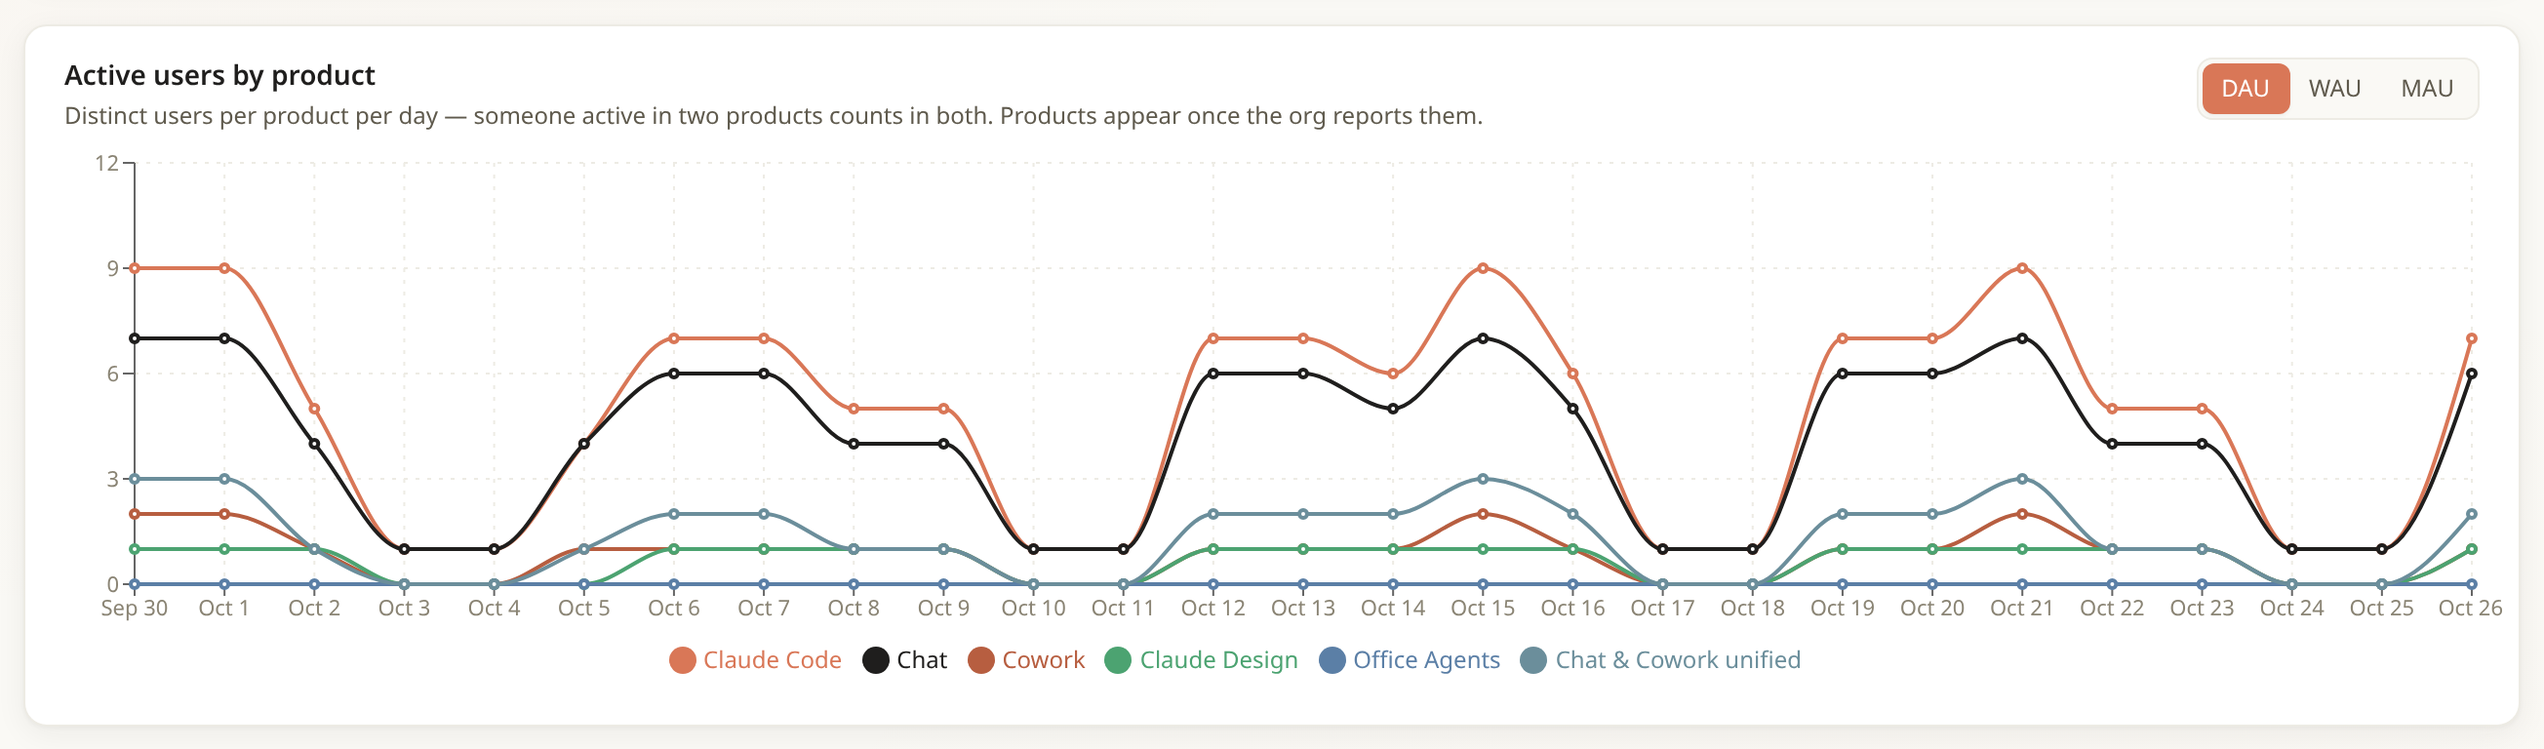
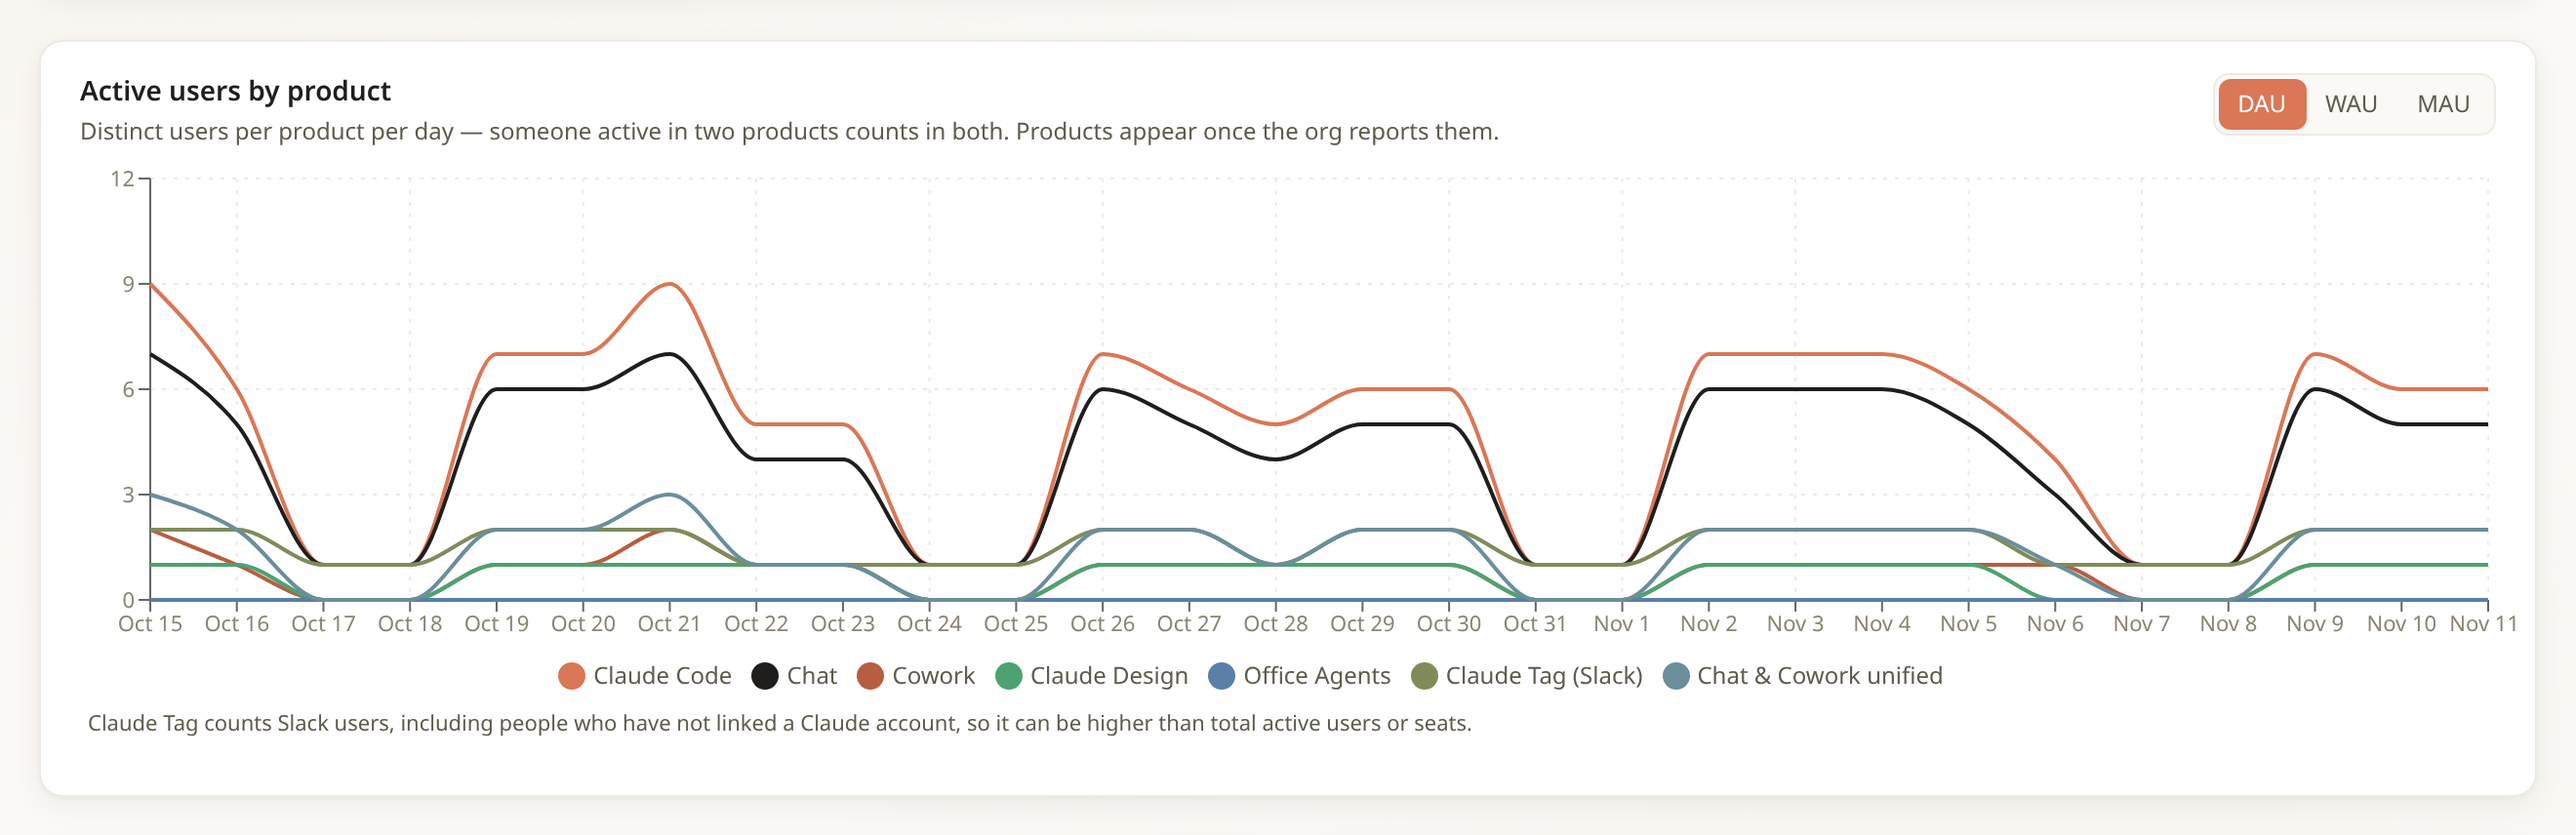
docs(site): 브로셔 갱신 — v2.8.0 릴리스 카드, 보안 태세 화면 추가, 추세 화면 재캡처
- 릴리스 기록에 v2.8.0 카드를 추가하고 최신 표시, 머리말, 푸터 링크를 옮겼다.
- 화면 둘러보기에 보안 태세 카드 캡처를 추가했다(12장). 추세 캡처는 Claude Tag 선과
  안내 문구가 보이도록 다시 찍었다. 둘 다 합성 데이터(E2E 합성 API)다.
- 기능 설명에 보안 태세와 Claude Tag를 반영했다.

diff --git a/site/index.html b/site/index.html
@@ -556,7 +556,7 @@
       <div class="feat reveal">
         <div class="fic"><svg width="22" height="22" viewBox="0 0 24 24" fill="none" stroke="currentColor" stroke-width="1.8" stroke-linecap="round" stroke-linejoin="round" aria-hidden="true" focusable="false"><path d="M3 17l5-5 4 4 8-8"/><path d="M14 8h6v6"/></svg></div>
         <h3>도입 추이 & 스킬·커넥터</h3>
-        <p>DAU·WAU·MAU와 도입률에 더해 Claude Code·Chat·Cowork·Claude Design·Office Agents 등 제품별 활성 사용자를 최대 366일 범위에서 추적합니다. 도입 화면에서는 스킬별 호출·초과 지출 추정, 커넥터 읽기·쓰기 호출, 조직 플러그인 카탈로그(설치 정책·업데이트·검사 상태), 제품별 아티팩트 생성 현황을 봅니다.</p>
+        <p>DAU·WAU·MAU와 도입률에 더해 Claude Code·Chat·Cowork·Claude Design·Office Agents·Claude Tag(Slack) 등 제품별 활성 사용자를 최대 366일 범위에서 추적합니다. 도입 화면에서는 스킬별 호출·초과 지출 추정, 커넥터 읽기·쓰기 호출, 조직 플러그인 카탈로그(설치 정책·업데이트·검사 상태), 제품별 아티팩트 생성 현황을 봅니다.</p>
         <span class="tag">제품별 DAU · 스킬 지출 · 커넥터 호출 · 플러그인 · 아티팩트</span>
       </div>
       <div class="feat reveal">
@@ -568,8 +568,8 @@
       <div class="feat reveal">
         <div class="fic"><svg width="22" height="22" viewBox="0 0 24 24" fill="none" stroke="currentColor" stroke-width="1.8" stroke-linecap="round" stroke-linejoin="round" aria-hidden="true" focusable="false"><path d="M12 3l8 4v5c0 5-3.5 8-8 9-4.5-1-8-4-8-9V7z"/><path d="M9 12l2 2 4-4"/></svg></div>
         <h3>감사 로그 (Compliance)</h3>
-        <p>Compliance API 활동 피드를 1,000건 단위로 조회하고, 기간 프리셋별 결과를 5분마다 미리 갱신해 두므로 화면이 바로 열립니다. 역할·키 변경, 로그인 실패, Anthropic 직원 접근 같은 고위험 이벤트를 API 활동 타입 기준으로 분류하고, 11종 행위자를 구분합니다. 멤버의 역할 분포와 사용자 지정 지침 저장 현황도 함께 보며, 지침 원문은 unmasked 그룹으로 검증된 관리자에게만 보입니다.</p>
-        <span class="tag">AUDIT TRAIL · 위험 분류 · 11종 행위자</span>
+        <p>Compliance API 활동 피드를 1,000건 단위로 조회하고, 기간 프리셋별 결과를 5분마다 미리 갱신해 두므로 화면이 바로 열립니다. 역할·키 변경, 로그인 실패, Anthropic 직원 접근 같은 고위험 이벤트를 API 활동 타입 기준으로 분류하고, 11종 행위자를 구분합니다. 멤버의 역할 분포와 사용자 지정 지침 저장 현황도 함께 보며, 지침 원문은 unmasked 그룹으로 검증된 관리자에게만 보입니다. 보안 태세 카드는 claude.ai Security posture의 통제 항목별 현재 결과를 실패, 미확인, 통과, 참고용으로 나눠 보여 줍니다.</p>
+        <span class="tag">AUDIT TRAIL · 위험 분류 · 11종 행위자 · 보안 태세</span>
       </div>
       <div class="feat reveal">
         <div class="fic"><svg width="22" height="22" viewBox="0 0 24 24" fill="none" stroke="currentColor" stroke-width="1.8" stroke-linecap="round" stroke-linejoin="round" aria-hidden="true" focusable="false"><ellipse cx="12" cy="5" rx="8" ry="2.6"/><path d="M4 5v7c0 1.4 3.6 2.6 8 2.6s8-1.2 8-2.6V5"/><path d="M4 12v7c0 1.4 3.6 2.6 8 2.6s8-1.2 8-2.6v-7"/></svg></div>
@@ -587,7 +587,7 @@
     <div class="sec-head reveal">
       <div class="kicker">화면 둘러보기</div>
       <h2>대시보드 화면을 <em>미리 보세요</em>.</h2>
-      <p>아래 11장의 캡처는 모두 가상 조직(acme.com)의 합성 데이터입니다. 키 없이 띄운 서버가 내장 mock 데이터를 돌려주므로 페이지 머리글에 Mock 배지가 붙습니다. mock 모드가 없는 Cost·Audit 화면과 Users의 캐시 적중률 열에는 합성 API 응답을 넣었고, Cost의 배지도 Mock으로 바꿔 표시했습니다. Audit 화면에는 원래 배지가 없습니다. 이메일은 마스킹되어 있습니다.</p>
+      <p>아래 12장의 캡처는 모두 가상 조직(acme.com)의 합성 데이터입니다. 키 없이 띄운 서버가 내장 mock 데이터를 돌려주므로 페이지 머리글에 Mock 배지가 붙습니다. mock 모드가 없는 Cost·Audit 화면과 Users의 캐시 적중률 열에는 합성 API 응답을 넣었고, Cost의 배지도 Mock으로 바꿔 표시했습니다. Audit 화면에는 원래 배지가 없습니다. 이메일은 마스킹되어 있습니다.</p>
     </div>
     <div class="shot-grid">
       <figure class="shot-card wide reveal">
@@ -639,11 +639,11 @@
         </div>
       </figure>
       <figure class="shot-card reveal">
-        <button type="button" class="shot-img" data-lightbox-index="6"><img src="img/trends.png" loading="lazy" alt="Claude Code, Chat, Cowork, Claude Design, Office Agents, Chat &amp; Cowork unified의 제품별 일일 활성 사용자를 선 그래프로 비교하는 Trends 화면 — DAU·WAU·MAU 전환 버튼 포함, 합성 데이터" width="2608" height="768"><span class="zoom-hint">크게 보기 <span aria-hidden="true">⤢</span></span></button>
+        <button type="button" class="shot-img" data-lightbox-index="6"><img src="img/trends.png" loading="lazy" alt="Claude Code, Chat, Cowork, Claude Design, Office Agents, Claude Tag (Slack), Chat &amp; Cowork unified의 제품별 일일 활성 사용자를 선 그래프로 비교하는 Trends 화면 — DAU·WAU·MAU 전환 버튼과 Claude Tag 집계 기준 안내 포함, 합성 데이터" width="2640" height="856"><span class="zoom-hint">크게 보기 <span aria-hidden="true">⤢</span></span></button>
         <div class="shot-body">
           <div class="shot-kicker">Trends</div>
           <h3>제품별 도입 곡선 추적</h3>
-          <p>DAU·WAU·MAU 추이에 더해 제품별 활성 사용자를 한 차트에서 비교해, 어떤 제품이 조직에 자리 잡는지 확인합니다. Chat·Cowork 통합은 별도 선으로 그려 사용량이 어디로 옮겨 가는지 보여줍니다.</p>
+          <p>DAU·WAU·MAU 추이에 더해 제품별 활성 사용자를 한 차트에서 비교해, 어떤 제품이 조직에 자리 잡는지 확인합니다. Chat·Cowork 통합은 별도 선으로 그려 사용량이 어디로 옮겨 가는지 보여줍니다. Slack에서 쓰는 Claude Tag도 한 선으로 그리며, Claude 계정을 연결하지 않은 Slack 사용자까지 센다는 점을 차트 아래에 밝힙니다.</p>
         </div>
       </figure>
       <figure class="shot-card wide reveal">
@@ -663,7 +663,15 @@
         </div>
       </figure>
       <figure class="shot-card wide reveal">
-        <button type="button" class="shot-img" data-lightbox-index="9"><img src="img/adoption-catalog.png" loading="lazy" alt="플러그인별 소유·마켓플레이스·설치 정책·버전 상태·검사 결과·호출 수를 보여주는 플러그인 카탈로그 표와, 생성 100개·공유 24%·게시 9개 KPI 및 제품별 아티팩트 막대 차트 — 합성 데이터" width="2608" height="1576"><span class="zoom-hint">크게 보기 <span aria-hidden="true">⤢</span></span></button>
+        <button type="button" class="shot-img" data-lightbox-index="9"><img src="img/security-posture.png" loading="lazy" alt="실패 2개, 미확인 3개, 통과 4개(위험 수용 1개 포함), 참고용 4개 KPI와, 조치가 필요한 통제 항목을 섹션별로 현재 값과 권장 값과 함께 나열한 표를 보여주는 보안 태세 카드 — 합성 데이터" width="2640" height="1316"><span class="zoom-hint">크게 보기 <span aria-hidden="true">⤢</span></span></button>
+        <div class="shot-body">
+          <div class="shot-kicker">Audit · Security posture</div>
+          <h3>보안 통제 현황을 한 카드에</h3>
+          <p>claude.ai 조직 설정의 Security posture 페이지에 있는 통제 항목이 지금 통과인지, 실패인지, 아직 아무도 확인하지 않았는지 봅니다. 실패하거나 확인되지 않은 항목을 현재 값, 권장 값과 함께 먼저 보여 주고, 누가 확인했는지는 표시하지 않습니다.</p>
+        </div>
+      </figure>
+      <figure class="shot-card wide reveal">
+        <button type="button" class="shot-img" data-lightbox-index="10"><img src="img/adoption-catalog.png" loading="lazy" alt="플러그인별 소유·마켓플레이스·설치 정책·버전 상태·검사 결과·호출 수를 보여주는 플러그인 카탈로그 표와, 생성 100개·공유 24%·게시 9개 KPI 및 제품별 아티팩트 막대 차트 — 합성 데이터" width="2608" height="1576"><span class="zoom-hint">크게 보기 <span aria-hidden="true">⤢</span></span></button>
         <div class="shot-body">
           <div class="shot-kicker">Adoption</div>
           <h3>플러그인 카탈로그와 아티팩트</h3>
@@ -671,7 +679,7 @@
         </div>
       </figure>
       <figure class="shot-card wide reveal">
-        <button type="button" class="shot-img" data-lightbox-index="10"><img src="img/ai-analyze.png" loading="lazy" alt="Claude Code 활성 기여자 Top 3를 묻는 질문에 Claude Sonnet 5.5가 도구로 데이터를 조회해 순위 표, 순위별 근거, 이어서 할 질문을 답한 Analyze 화면 — 합성 데이터, 이메일 마스킹" width="2016" height="1548"><span class="zoom-hint">크게 보기 <span aria-hidden="true">⤢</span></span></button>
+        <button type="button" class="shot-img" data-lightbox-index="11"><img src="img/ai-analyze.png" loading="lazy" alt="Claude Code 활성 기여자 Top 3를 묻는 질문에 Claude Sonnet 5.5가 도구로 데이터를 조회해 순위 표, 순위별 근거, 이어서 할 질문을 답한 Analyze 화면 — 합성 데이터, 이메일 마스킹" width="2016" height="1548"><span class="zoom-hint">크게 보기 <span aria-hidden="true">⤢</span></span></button>
         <div class="shot-body">
           <div class="shot-kicker">AI Analyze</div>
           <h3>자연어로 묻고, 리포트로 받는다</h3>
@@ -794,17 +802,28 @@
 <section class="sec" id="releases" style="padding-top:0" tabindex="-1">
   <div class="wrap">
     <div class="sec-head reveal">
-      <div class="kicker">릴리스 기록 · v0.1 → v2.7</div>
+      <div class="kicker">릴리스 기록 · v0.1 → v2.8</div>
       <h2>첫 출시부터 지금까지, <em>릴리스로 보는 성장</em>.</h2>
-      <p>11개 화면으로 시작한 v0.1 이후 도구 호출 챗봇(v0.7), 그룹별 비용(v1.6), 멀티 조직(v2.0), 비용 실시간(v2.2)을 거쳐 Chat·Cowork 통합(v2.7)까지 왔습니다. 주요 버전과 최신 릴리스의 핵심 변화를 최신 순으로 모았습니다.</p>
+      <p>11개 화면으로 시작한 v0.1 이후 도구 호출 챗봇(v0.7), 그룹별 비용(v1.6), 멀티 조직(v2.0), 비용 실시간(v2.2), Chat·Cowork 통합(v2.7)을 거쳐 비용 API 전환과 보안 태세(v2.8)까지 왔습니다. 주요 버전과 최신 릴리스의 핵심 변화를 최신 순으로 모았습니다.</p>
     </div>
     <ol class="timeline" role="list" aria-label="릴리스 기록, 최신 순">
     <li class="rel rel-hi reveal">
       <span class="rel-dot" aria-hidden="true"></span>
       <div class="rel-card">
         <div class="rel-head">
-          <h3 class="rel-ver"><a href="https://github.com/whchoi98/claude-code-dashboard/releases/tag/v2.7.1" target="_blank" rel="noopener">v2.7.1<span class="sr-only"> 릴리스 노트(새 창)</span></a></h3>
+          <h3 class="rel-ver"><a href="https://github.com/whchoi98/claude-code-dashboard/releases/tag/v2.8.0" target="_blank" rel="noopener">v2.8.0<span class="sr-only"> 릴리스 노트(새 창)</span></a></h3>
           <span class="rel-latest">최신</span>
+          <time class="rel-date" datetime="2026-11-14">2026-11-14</time>
+          <span class="rel-theme">비용 API 전환 · 보안 태세 · Claude Tag</span>
+        </div>
+        <ul class="rel-feats" role="list"><li>비용 데이터를 Usage and Cost Analytics API(베타)에서 읽고, 새 API가 호출을 거부하면 기존 리포트로 되돌아감. 실데이터 비교에서 두 API의 수치가 소수 여섯 자리까지 일치</li><li>감사에 보안 태세 카드: claude.ai Security posture 통제 항목의 실패, 미확인, 통과, 참고용 현황과 현재 값, 권장 값</li><li>추세의 제품별 활성 사용자에 Claude Tag(Slack의 Claude) 선, 컬렉터가 사용자별 활동일과 메시지 수를 보관</li><li>IP 허용 목록 대비: Anthropic이 서버 주소를 거부하면 모든 페이지에 배너로 안내하고, 컬렉터 Lambda를 VPC 안에서 실행해 서버와 같은 고정 주소로 송신</li></ul>
+      </div>
+    </li>
+    <li class="rel reveal">
+      <span class="rel-dot" aria-hidden="true"></span>
+      <div class="rel-card">
+        <div class="rel-head">
+          <h3 class="rel-ver"><a href="https://github.com/whchoi98/claude-code-dashboard/releases/tag/v2.7.1" target="_blank" rel="noopener">v2.7.1<span class="sr-only"> 릴리스 노트(새 창)</span></a></h3>
           <time class="rel-date" datetime="2026-10-31">2026-10-31</time>
           <span class="rel-theme">표기 정확도 · 차트 가독성</span>
         </div>
@@ -998,7 +1017,7 @@
       <span>Claude Code Dashboard — Claude Code 조직 분석 대시보드</span>
     </div>
     <div class="mono">Anthropic Analytics · Compliance API — React · Express · ECS Fargate · Bedrock · Athena</div>
-    <div><a href="https://github.com/whchoi98/claude-code-dashboard" target="_blank" rel="noopener">GitHub에서 소스 보기<span class="sr-only">(새 창)</span></a> · <a href="https://github.com/whchoi98/claude-code-dashboard/releases/tag/v2.7.1" target="_blank" rel="noopener">최신 릴리스 v2.7.1 (2026-10-31)<span class="sr-only">(새 창)</span></a></div>
+    <div><a href="https://github.com/whchoi98/claude-code-dashboard" target="_blank" rel="noopener">GitHub에서 소스 보기<span class="sr-only">(새 창)</span></a> · <a href="https://github.com/whchoi98/claude-code-dashboard/releases/tag/v2.8.0" target="_blank" rel="noopener">최신 릴리스 v2.8.0 (2026-11-14)<span class="sr-only">(새 창)</span></a></div>
     <div>본 대시보드는 독립적으로 개발된 분석 도구로, Anthropic의 공식 제품이 아닙니다. Anthropic, Claude는 Anthropic PBC의 상표이며, Amazon Web Services, AWS 관련 명칭은 Amazon.com, Inc. 또는 계열사의 상표입니다.</div>
   </div>
 </footer>
